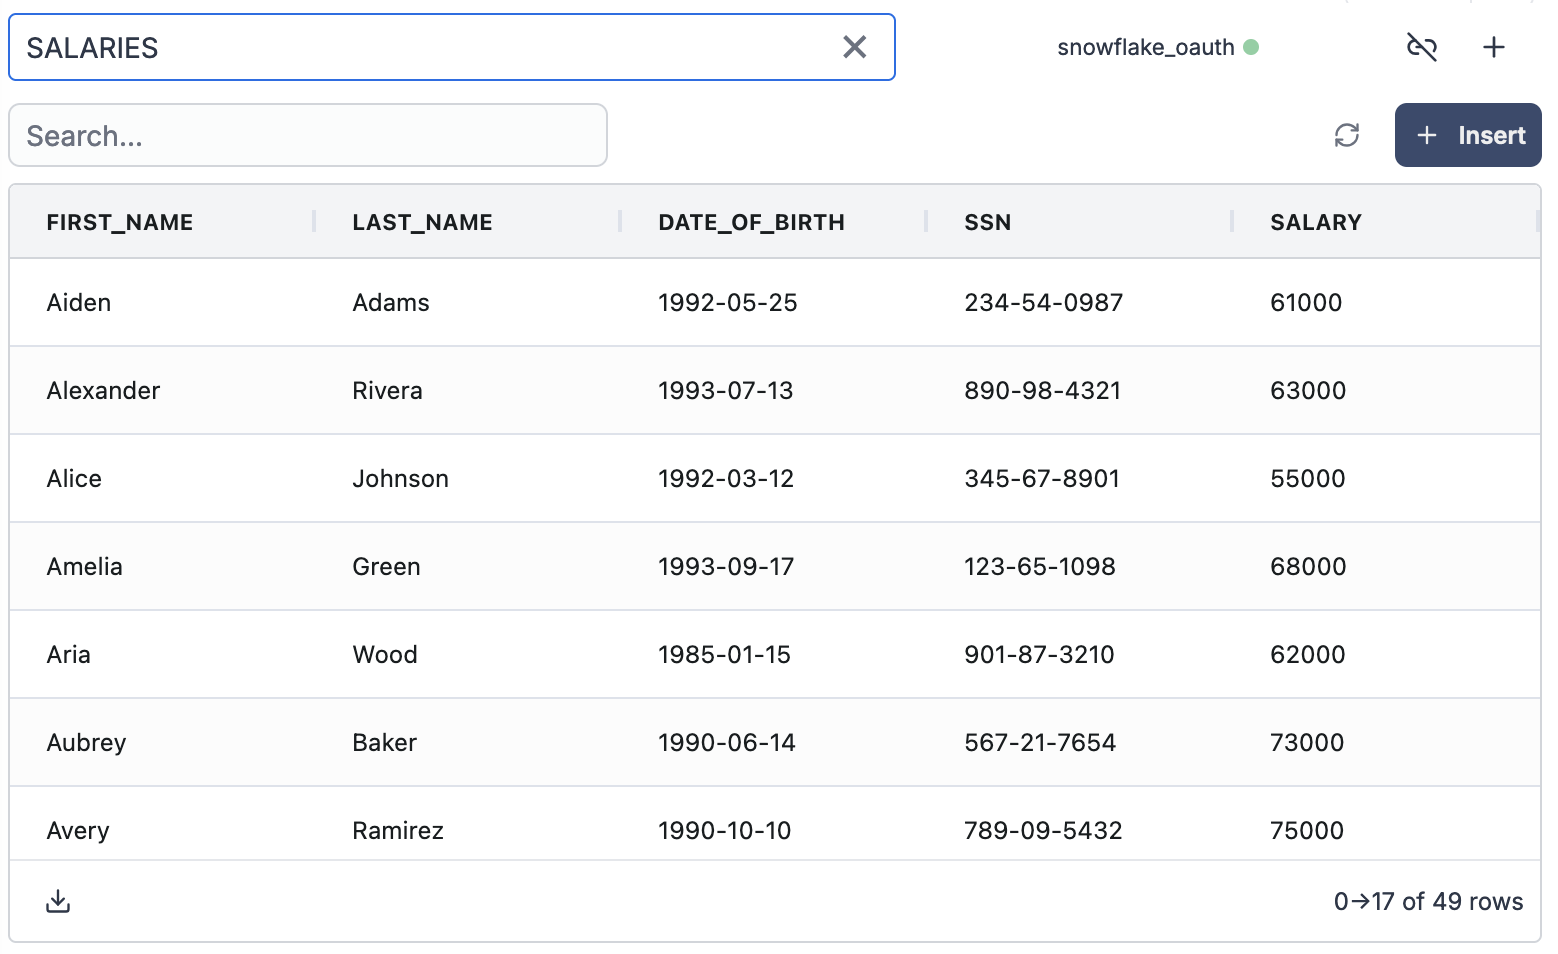
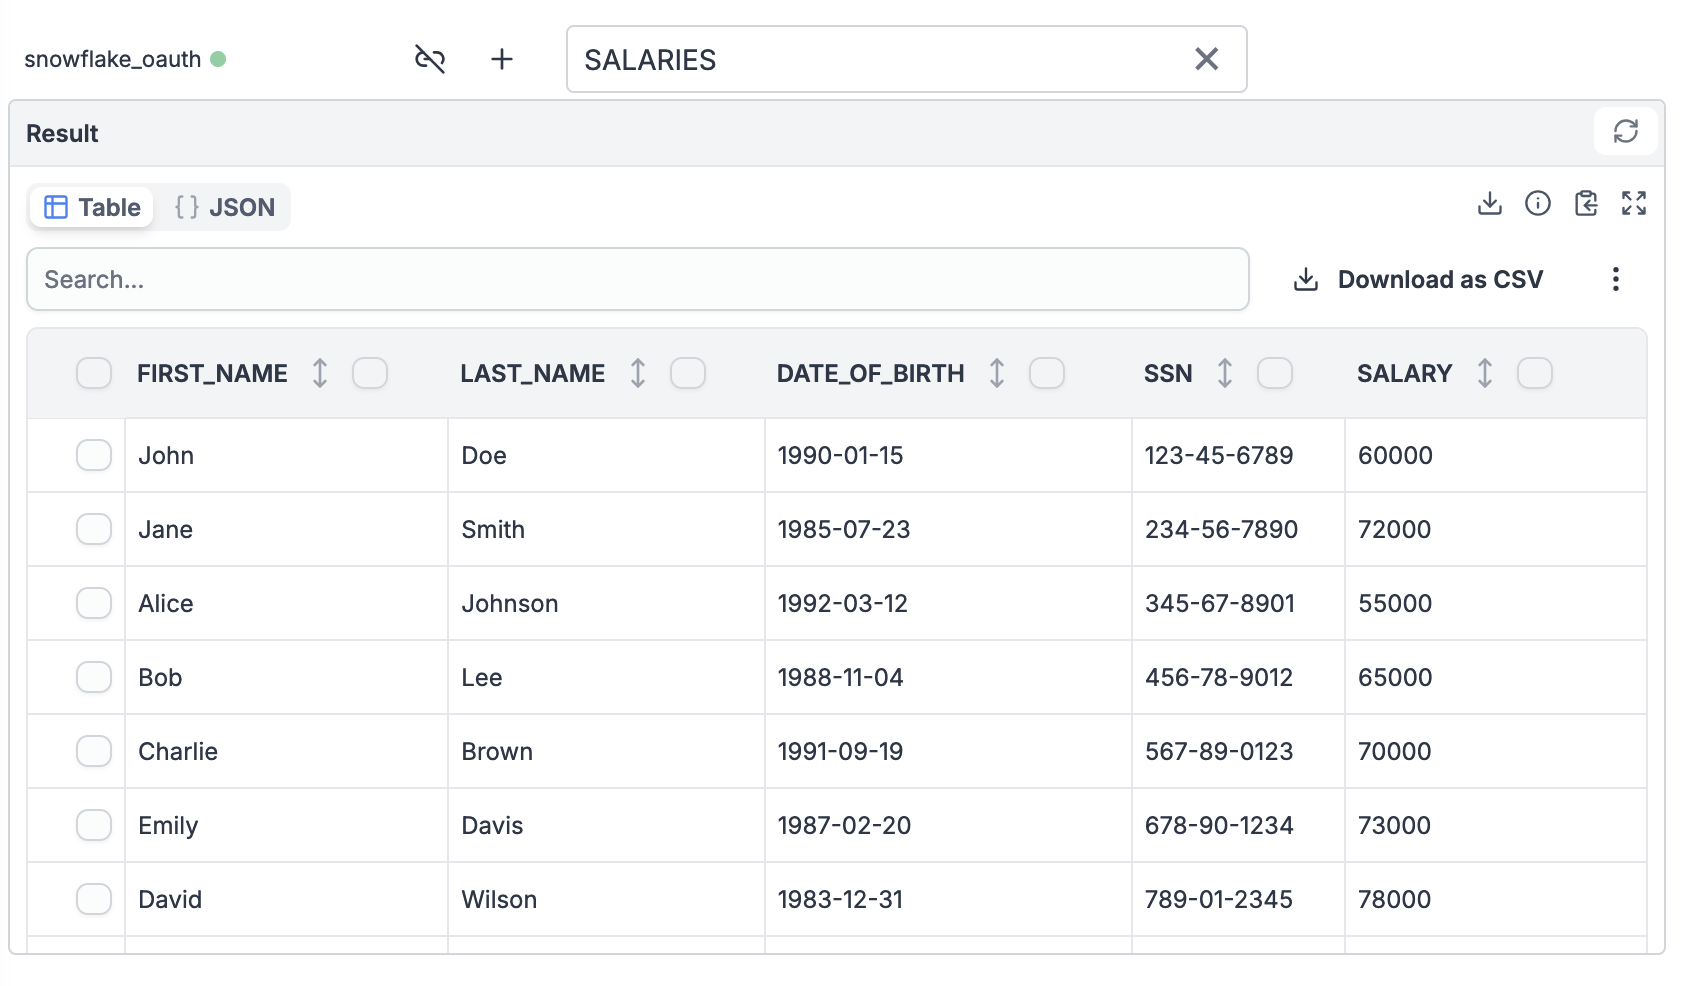
update snowflake - use rich result instead of database studio (#754)
* updating snowflake guide to use rich result

* updating pics

diff --git a/docs/misc/9_guides/snowflake/index.md b/docs/misc/9_guides/snowflake/index.md
@@ -31,14 +31,14 @@ Note that the mechanism of using the end-user's role demonstated here with Snowf
 
 For a visual walkthrough of building this app, watch the tutorial below:
 
-- 00:00 [Create a New Snowflake OAuth User Resource](https://www.youtube.com/watch?v=8Mk_4ErioeE&t=0s)
-- 00:37 [Background Runnable to query Available Tables](https://www.youtube.com/watch?v=8Mk_4ErioeE&t=37s)
-- 02:04 [Display Table Content](https://www.youtube.com/watch?v=8Mk_4ErioeE&t=124s)
-- 02:47 [Test the App](https://www.youtube.com/watch?v=8Mk_4ErioeE&t=167s)
+- 00:00 [Create a New Snowflake OAuth User Resource](https://www.youtube.com/watch?v=9r17_ABP4Xk&t=0s)
+- 00:37 [Background Runnable to query Available Tables](https://www.youtube.com/watch?v=9r17_ABP4Xk&t=21s)
+- 02:04 [Display Table Content](https://www.youtube.com/watch?v=9r17_ABP4Xk&t=83s)
+- 02:47 [Test the App](https://www.youtube.com/watch?v=9r17_ABP4Xk&t=147s)
 
 <iframe
     style={{ aspectRatio: '16/9' }}
-    src="https://www.youtube.com/embed/8Mk_4ErioeE"
+    src="https://www.youtube.com/embed/9r17_ABP4Xk"
     title="Small tutorial on how to build a Windmill App that uses Snowflake as a data source with OAuth roles and permissions"
     frameBorder="0"
     allow="accelerometer; autoplay; clipboard-write; encrypted-media; gyroscope; picture-in-picture; web-share"
@@ -103,13 +103,19 @@ Next, create a **Background Runnable** to retrieve the available tables based on
 
 ### Step 3: Display Table Content
 
-Now, add a **Database Studio Table** component to show the table content based on the selected table.
+Now, add a **Rich Result** component to show the table content based on the selected table.
 
-1. Create a **Database Studio Table** component.
-2. Connect the **Database Studio Table**’s "resource" field to the **User Resource Input** component from Step 1.
-3. Connect the **Database Studio Table**’s "table" field to the **Select** component created in Step 2.
+1. Create a **Rich Result** component.
+2. In the "Data Source" setting, Select "Create Inline Script" and select "Snowflake". In the code editor enter your snowflake query such as:
+   ```sql
+   -- ? table_name (varchar) = default arg
+   select * from TABLE(?)
+   ```
+2. Connect the **Rich Result**’s "database" field to the **User Resource Input** component from Step 1.
+3. Connect the **Rich Result**’s "table_name" field to the **Select** component created in Step 2.
+4. Enable the toggle **resource from users allowed** to grant access to user-linked resources. Note that this resource is passed as a reference and won’t be accessible to the app publisher.
 
-   ![Settings for Database Studio](./database_studio.png)
+   ![Settings for Rich Result](./rich_result.png)
 
 4. The component will automatically populate with data from the selected table.
 
